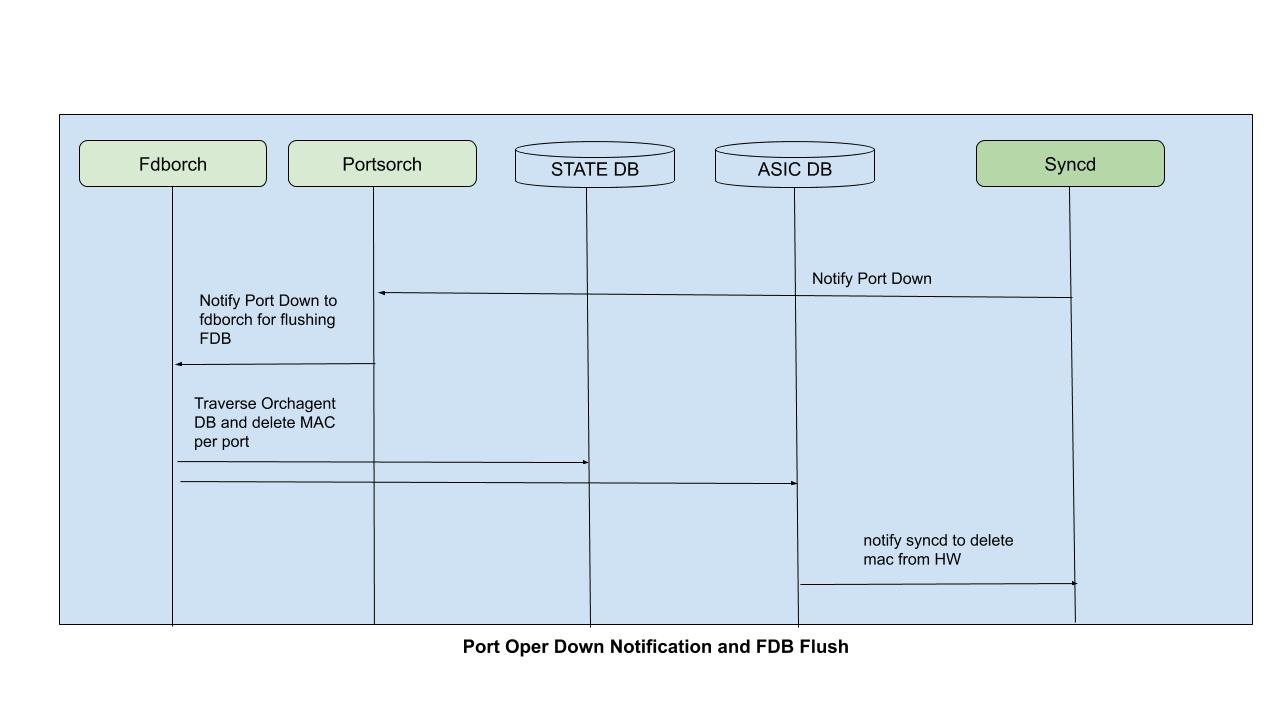
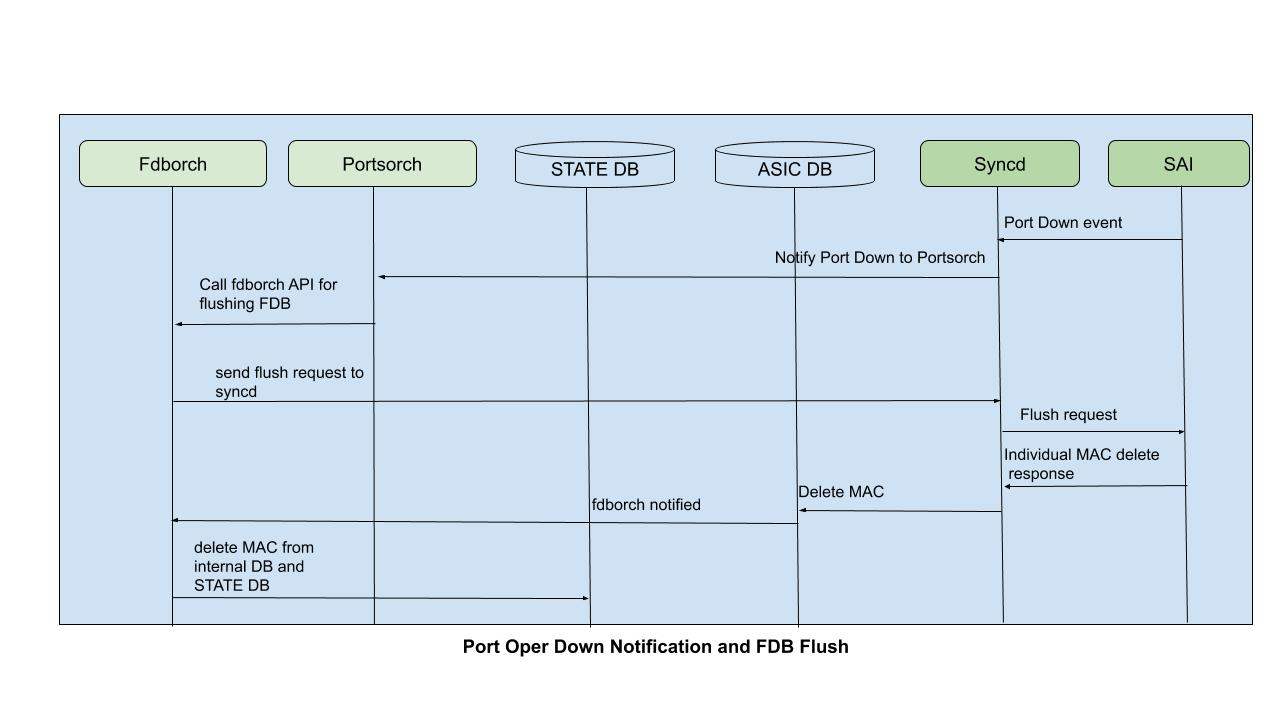
Updated to change FDB flush as bulk flush in hardware
Changed FDB flush mechanism from individual FDB entry delete to Bulk flush in hardware.

diff --git a/doc/layer2-forwarding-enhancements/SONiC Layer 2 Forwarding Enhancements HLD.md b/doc/layer2-forwarding-enhancements/SONiC Layer 2 Forwarding Enhancements HLD.md
@@ -67,7 +67,7 @@ This document describes the high level design of Layer 2 Forwarding Enhancements
 	 - FDB entries should be flushed per Port when the operational state of the port goes down. Only dynamic entries should be flushed.
 	 - FDB entries should be flushed per Port per VLAN when a port is removed from a VLAN. Both dynamic and static entries should be flushed. Static FDB configuration should not be removed.
 	 - FDB entries should be flushed per Port or per Port per VLAN when triggered by Layer 2 Protocol upon topology change. Only dynamic entries should be flushed.
-	 - FDB entries should be flushed per Portchannel when the admin or oper status of the Portchannel goes down.
+	 - FDB entries should be flushed per Portchannel when the admin or operational status of the Portchannel goes down.
 	 - FDB entry should be removed from FDB_TABLE in STATE_DB and ASIC_SB and internal orchagent FDB data structure and Hardware.
 	  
 2. Handle MAC move event generated by hardware.
@@ -76,7 +76,7 @@ This document describes the high level design of Layer 2 Forwarding Enhancements
 3. Configuration CLI for FDB aging time.
 	- The FDB aging time should be configurable in hardware to a desired value from CLI.
 	- There should be an option to disable aging by setting the aging time to 0.
-    - The default FDB aging time should be set to 0. User has option to set desired value in default config file.
+	- The default FDB aging time should be set to 0. User has option to set desired value in default config file.
 	
 4. Configuration CLI for Static FDB entry.
 	- A Static FDB entry should be configurable in hardware from CLI.
@@ -117,12 +117,12 @@ None
 
 ## 2.2 Functional Description
 **1. FDB Flush suport**
-- When a port operational state goes down, all dynamic FDB entries  will be flushed on the port.  The entries will be removed from FDB_TABLE in ASIC_DB, STATE_DB and Hardware and Orchagent data structures. Portchannel admin or oper state down will also be handled similarly.
+- When a port operational state goes down, all dynamic FDB entries  will be flushed on the port.  The entries will be removed from FDB_TABLE in ASIC_DB, STATE_DB and Hardware and Orchagent data structures. Portchannel admin or operational state down will also be handled similarly.
 - When a port is removed from VLAN, all static and dynamic FDB entries  will be flushed on the (port,VLAN). Static FDB entries will still be preserved in the FDB_TABLE in CONFIG_DB and APP_DB. When port is added back to VLAN, Orchagent will reprogram the FDB entries. 
 - Spanning Tree Protocol  to flush dynamic FDB entries either on a Port or on (Port,VLAN) when topology change occurs. API will be provided in Orchagent for L2 protocol component to flush FDB entries accordingly.
   
 **2. Handle MAC move events.**
-- MAC move event generated by some HW (e.g. DNX) is currently not handled in SAI and SONiC. Will add support in Orchagent for moving the FDB entry to new port upon receipt of such event. 
+- MAC move event generated by some hardware (e.g. DNX) is currently not handled in SAI and SONiC. Will add support in Orchagent for moving the FDB entry to new port upon receipt of such event. 
   
 **3. Configuration for FDB aging time.**
 - CLI configuration  to be added to change the FDB aging time. By default, the aging time in hardware is 0. It can be changed to a desired value if CLI is available. Currently, it can be done only by setting in APP_DB. The configuration range will be  0-1,000,000 seconds. Setting aging time to 0 will disable aging.
@@ -188,7 +188,7 @@ SWITCH_TABLE will be set in CONFIG_DB to store FDB aging time configuration.
 
 
 The internal FDB data structure  will be enhanced to store Bridge Port OID and FDB type information. Currently, FDB is stored as c++ set. It will be changed to c++ map to store (key, value), where key is (MAC, bv_id) and value is (bridge_port_oid, type).
-Bridge Port OID and type are needed to support FDB flush per port or per port per VLAN.
+Bridge Port OID and type are needed to add Static FDB to saved FDB after flush.
 
 
 	**FDB Data structure in Orchagent:**
@@ -209,13 +209,13 @@ A new  unordered_map containing a mapping between SAI object ID (can be either P
 
 
 **Changes for FDB flush.**
-When a FDB flush request is received, Orchagent internal DB will be traversed and FDB entries corresponding to flush request will be delete from Orchagent data structure and STATE_DB. A delete request to ASIC_DB will also be invoked through sai_redis API.
+When a FDB flush request is received, Orchagent will send a bulk flush request to syncd. Individual FDB delete response from SAI will be used to delete FDB entries in ASIC_DB, STATE_DB and orchagent data structure. The delete response will be received as AGED event to syncd, which will delete the entry in ASIC_DB and notify Orchagent.
 
 
 When a port operational status goes down, portsorch will call fdborch API to trigger FDB flush. Only dynamic FDB will be flushed.
 
 
-When a port is removed from VLAN, portsorch will call fdborch API to trigger FDB flush. Both static and dynamic FDB will be flushed. Also, the static FDB will be added to the temporary DB in orchagent, so that it can programmed back when port is added back to VLAN.
+When a port is removed from VLAN, portsorch will call fdborch API to trigger FDB flush. Both static and dynamic FDB will be flushed. Also, the static FDB will be added to the temporary DB in orchagent when delete response is received, so that it can programmed back when port is added back to VLAN.
 
 
 When Spanning tree state changes, protocol component within orchagent will call fdborch API to flush FDB by either per Port or per Port per VLAN. Only dynamic FDB will be flushed.
